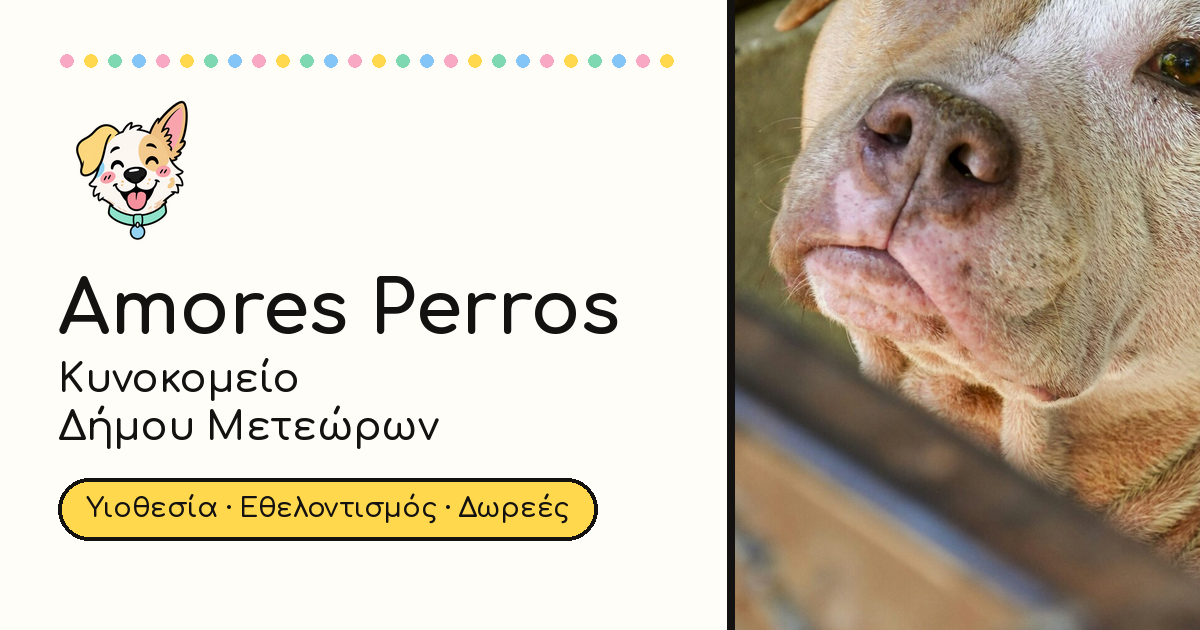
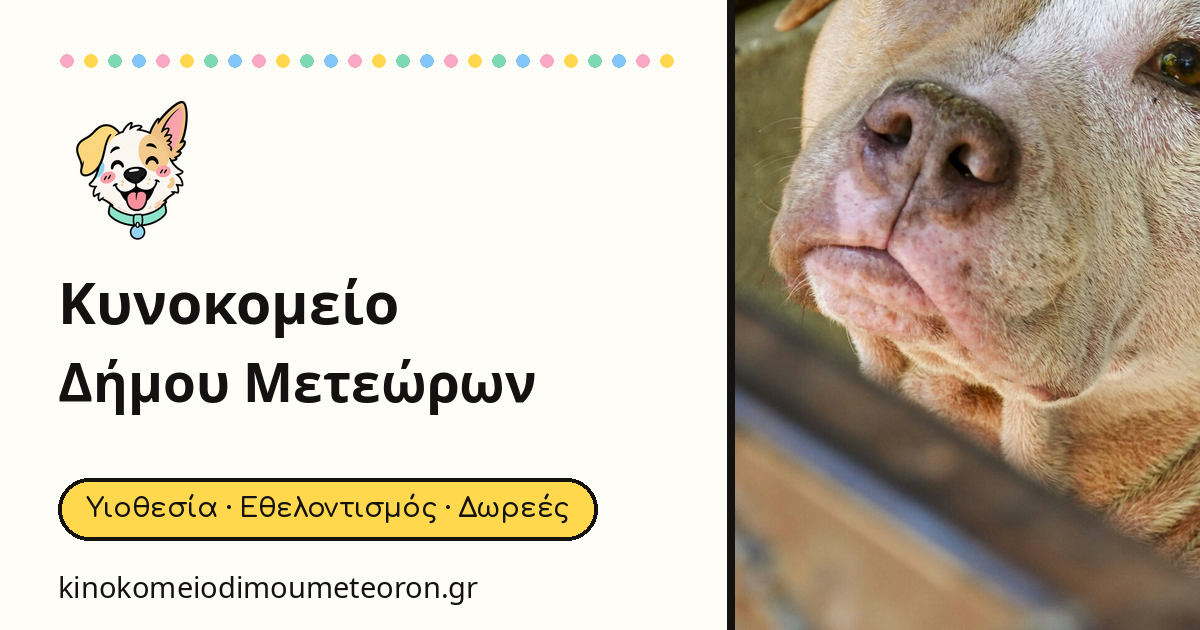
Rename shelter to Κυνοκομείο Δήμου Μετεώρων

Changed region(s): [[0.0308, 0.573, 0.4625, 0.7238], [0.0308, 0.4222, 0.5242, 0.5429], [0.0617, 0.9048, 0.4008, 0.9651]]

diff --git a/packages/web/index.html b/packages/web/index.html
@@ -8,9 +8,9 @@
 		<link rel="apple-touch-icon" href="/apple-touch-icon.png" />
 		<meta
 			name="description"
-			content="Amores Perros — Κυνοκομείο Δήμου Μετεώρων. Υιοθεσίες, εθελοντισμός και δωρεές για τα αδέσποτα σκυλιά των Μετεώρων."
+			content="Κυνοκομείο Δήμου Μετεώρων. Υιοθεσίες, εθελοντισμός και δωρεές για τα αδέσποτα σκυλιά των Μετεώρων."
 		/>
-		<meta property="og:title" content="Amores Perros — Κυνοκομείο Δήμου Μετεώρων" />
+		<meta property="og:title" content="Κυνοκομείο Δήμου Μετεώρων" />
 		<meta
 			property="og:description"
 			content="Δες τα σκυλιά που ψάχνουν σπίτι, κάνε αίτηση υιοθεσίας, γίνε εθελοντής ή στήριξε το κυνοκομείο."
@@ -18,12 +18,12 @@
 		<meta property="og:image" content="/og-image.png" />
 		<meta property="og:image:width" content="1200" />
 		<meta property="og:image:height" content="630" />
-		<meta property="og:image:alt" content="Amores Perros — Κυνοκομείο Δήμου Μετεώρων" />
-		<meta property="og:site_name" content="Amores Perros" />
+		<meta property="og:image:alt" content="Κυνοκομείο Δήμου Μετεώρων" />
+		<meta property="og:site_name" content="Κυνοκομείο Δήμου Μετεώρων" />
 		<meta property="og:type" content="website" />
 		<meta property="og:locale" content="el_GR" />
 		<meta name="twitter:card" content="summary_large_image" />
-		<meta name="twitter:title" content="Amores Perros — Κυνοκομείο Δήμου Μετεώρων" />
+		<meta name="twitter:title" content="Κυνοκομείο Δήμου Μετεώρων" />
 		<meta
 			name="twitter:description"
 			content="Δες τα σκυλιά που ψάχνουν σπίτι, κάνε αίτηση υιοθεσίας, γίνε εθελοντής ή στήριξε το κυνοκομείο."
@@ -35,7 +35,7 @@
 			href="https://fonts.googleapis.com/css2?family=Comfortaa:wght@400;500;600;700&family=Commissioner:wght@400;500;600;700&display=swap"
 			rel="stylesheet"
 		/>
-		<title>Amores Perros · Κυνοκομείο Δήμου Μετεώρων</title>
+		<title>Κυνοκομείο Δήμου Μετεώρων</title>
 	</head>
 	<body>
 		<div id="root"></div>

diff --git a/packages/web/src/web/components/layout.tsx b/packages/web/src/web/components/layout.tsx
@@ -53,12 +53,12 @@ export function Layout({ children }: { children: React.ReactNode }) {
           <Link to="/" className="flex min-w-0 items-center gap-2.5 no-underline">
             <img
               src="/images/site/logo.png"
-              alt="Amores Perros"
+              alt={t.brand}
               className="wag size-9 shrink-0 sm:size-11 md:size-12"
             />
             <span className="leading-tight">
-              <span className="block font-display text-sm font-bold sm:text-lg md:text-xl">
-                Amores Perros
+              <span className="block max-w-36 font-display text-[11px] font-bold leading-snug sm:max-w-56 sm:text-base md:text-lg">
+                {t.brand}
               </span>
               <span className="hidden text-[11px] text-ink/60 sm:block">{t.brandSub}</span>
             </span>
@@ -128,9 +128,10 @@ export function Layout({ children }: { children: React.ReactNode }) {
             <div>
               <div className="flex items-center gap-3">
                 <img src="/images/site/logo.png" alt="" className="size-12" />
-                <span className="font-display text-2xl font-bold">Amores Perros</span>
+                <span className="font-display text-2xl font-bold leading-snug">{t.brand}</span>
               </div>
               <p className="mt-3 text-sm text-paper/70">{t.brandSub}</p>
+              <p className="mt-3 break-all text-sm text-paper/70">kinokomeiodimoumeteoron.gr</p>
               <p className="mt-4 text-sm text-paper/70">{t.footer.madeWith}</p>
             </div>
 

diff --git a/packages/web/src/web/pages/admin/login.tsx b/packages/web/src/web/pages/admin/login.tsx
@@ -4,6 +4,7 @@ import { KeyRound, Loader2 } from "lucide-react";
 import { authClient } from "../../lib/auth";
 import { client } from "../../lib/api";
 import { useAdminText } from "../../queries/admin";
+import { useLocale } from "../../hooks/use-locale";
 import { Field, TextInput } from "../../components/ui/field";
 import { cn } from "../../lib/utils";
 
@@ -26,6 +27,7 @@ function localizeError(raw: string, a: ReturnType<typeof useAdminText>["a"]) {
 
 export default function AdminLogin() {
   const { a } = useAdminText();
+  const { t } = useLocale();
   const [, navigate] = useLocation();
   const [mode, setMode] = useState<Mode>("signIn");
   const [form, setForm] = useState({ name: "", email: "", password: "", inviteCode: "" });
@@ -66,7 +68,7 @@ export default function AdminLogin() {
       <div className="w-full max-w-md">
         <Link to="/" className="mb-6 flex items-center justify-center gap-3 no-underline">
           <img src="/images/site/logo.png" alt="" className="size-12" />
-          <span className="font-display text-2xl font-bold">Amores Perros</span>
+          <span className="font-display text-xl font-bold leading-snug">{t.brand}</span>
         </Link>
 
         <div className="comic-card bg-paper p-6">

diff --git a/packages/web/src/api/services/email.ts b/packages/web/src/api/services/email.ts
@@ -4,7 +4,7 @@
  * no email was sent (the submission is always stored in the database).
  */
 const NOTIFY_TO = process.env.NOTIFY_EMAIL ?? "sarantiath@gmail.com";
-const FROM = process.env.NOTIFY_FROM ?? "Amores Perros <onboarding@resend.dev>";
+const FROM = process.env.NOTIFY_FROM ?? "Κυνοκομείο Δήμου Μετεώρων <onboarding@resend.dev>";
 
 export interface SendEmailOptions {
   subject: string;
@@ -66,6 +66,6 @@ export function renderRows(title: string, rows: Array<[string, string | undefine
   return `<div style="font-family:system-ui,sans-serif;color:#131211">
     <h2 style="margin:0 0 12px">${title}</h2>
     <table style="border-collapse:collapse;font-size:14px;max-width:640px">${body}</table>
-    <p style="margin-top:16px;font-size:12px;color:#777">Amores Perros — Κυνοκομείο Δήμου Μετεώρων</p>
+    <p style="margin-top:16px;font-size:12px;color:#777">Κυνοκομείο Δήμου Μετεώρων</p>
   </div>`;
 }

diff --git a/packages/web/src/web/lib/translations.ts b/packages/web/src/web/lib/translations.ts
@@ -15,8 +15,8 @@ export const CONTACT = {
 
 export const dict = {
   el: {
-    brand: "Amores Perros",
-    brandSub: "Κυνοκομείο Δήμου Μετεώρων",
+    brand: "Κυνοκομείο Δήμου Μετεώρων",
+    brandSub: "Φροντίδα · Υιοθεσία · Εθελοντισμός",
     nav: {
       dogs: "Τα σκυλιά μας",
       adopt: "Υιοθεσία",
@@ -218,8 +218,8 @@ export const dict = {
     },
   },
   en: {
-    brand: "Amores Perros",
-    brandSub: "Municipal Dog Shelter of Meteora",
+    brand: "Municipal Dog Shelter of Meteora",
+    brandSub: "Care · Adoption · Volunteering",
     nav: {
       dogs: "Our dogs",
       adopt: "Adopt",

diff --git a/task.md b/task.md
@@ -79,3 +79,13 @@ G. English version (full EL/EN bilingual)
 - Build passed. Playwright local tests passed: 15 cards, thumbnails/arrows/keyboard, focus/close/Escape/backdrop, repeated donation edge clicks, 390px/320px mobile no overflow, deep links and single-photo fallback.
 - Live deploy 6af34a08dfa537040a9ff435 ready at https://shelterdogsk.netlify.app. Complete UI test suite passed on the live site, including repeated donation navigation and desktop/mobile galleries. Additional live touch-swipe and selected-dog adoption CTA tests passed.
 - GitHub main updated with UI changes (13051a0). No database records or administrator credentials were changed.
+
+## Shelter rebrand and requested .gr domain
+- User approved replacing all visible Amores Perros branding with Κυνοκομείο Δήμου Μετεώρων, retaining the original dog illustration.
+- Updated bilingual wordmark/header/footer/forms/login, document title/social metadata, notification sender name/footer and sharing image. Added downloadable Greek logo lockup.
+- Public footer displays requested kinokomeiodimoumeteoron.gr as text only until DNS/domain configuration is active.
+- Preserved existing storage/token keys, accounts and dog records. Removed only obsolete placeholder beneficiary from live settings; did not substitute an unverified bank-account name or alter IBAN.
+- Updated first-install contact snapshot to confirmed public email/phone and blank placeholder beneficiary.
+- Domain DNS Google resolver returned NXDOMAIN for apex/www and no NS records. Netlify connected inventory has no custom-domain write action; browser Netlify dashboard is not logged in. Registrar/Netlify domain configuration requires owner input.
+- Kept WEBSITE_URL on working Netlify hostname; custom-domain auth/origin switch pending domain activation, to avoid breaking live forms/admin.
+- Local build and mobile header overflow tests passed. Live rebrand deployment pending verification.

diff --git a/design.md b/design.md
@@ -1,8 +1,10 @@
-# Amores Perros — Design System
+# Κυνοκομείο Δήμου Μετεώρων — Design System
 
 Municipal dog shelter of Δήμος Μετεώρων. Bilingual EL/EN. The feeling: clean, playful, very happy,
 never confusing. Comic-sticker energy on a white page — think a friendly children's-book poster,
 not a corporate municipal portal.
+
+Brand name: Κυνοκομείο Δήμου Μετεώρων (English: Municipal Dog Shelter of Meteora). Retain the existing illustrated dog mark, replacing the former wordmark everywhere. Requested domain: kinokomeiodimoumeteoron.gr; activation requires registrar DNS and Netlify custom-domain configuration.
 
 ## Colors
 
